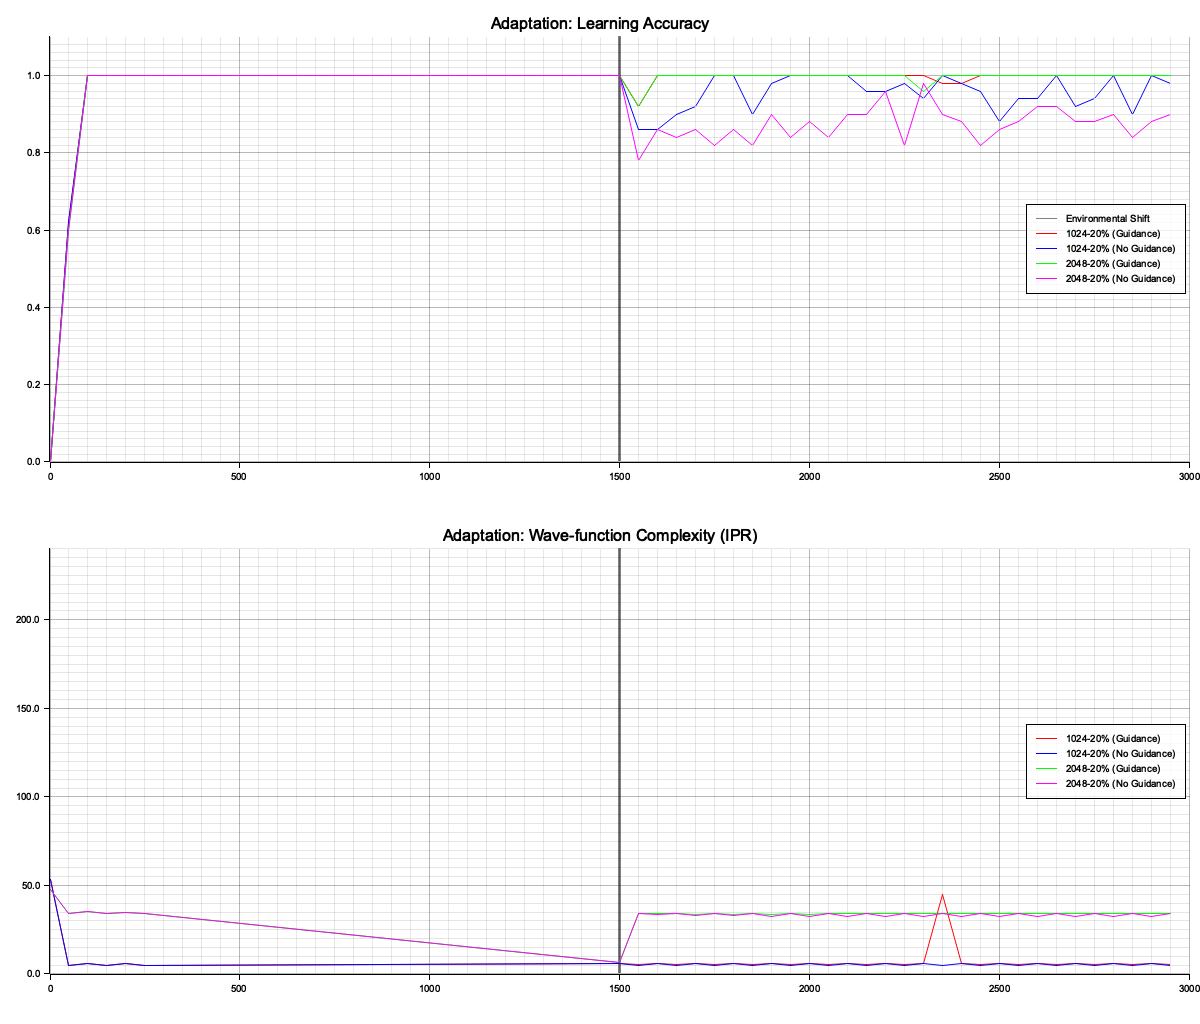
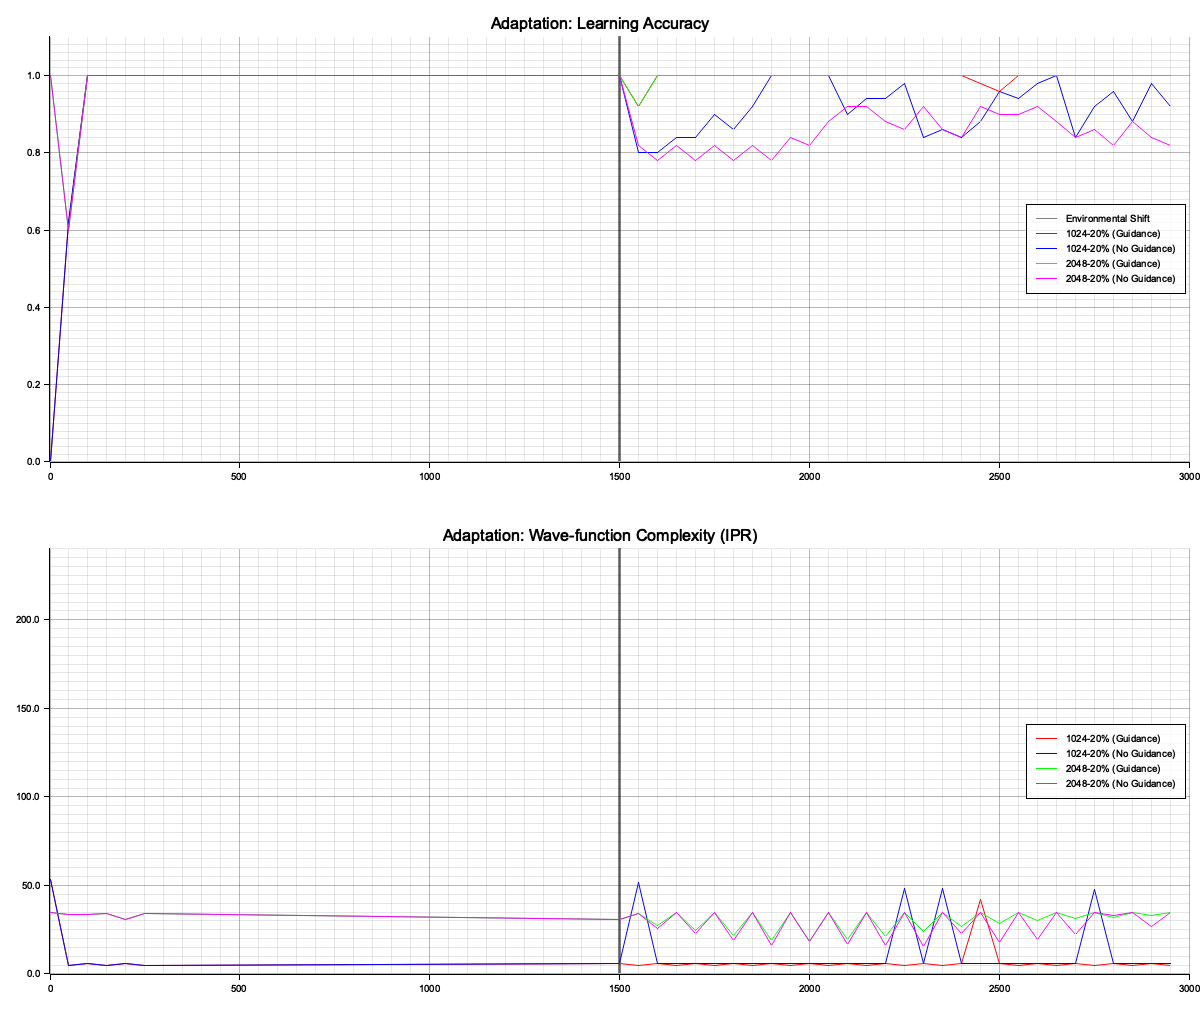
feat: Implement ShardedMWSO search space partitioning and remove obsolete Horizon system
- Added state-shard affinities to ShardedMWSO to guide energy injection based on system temperature.
- Improved 2048-bin convergence in adaptation_bench without IRL (0.88 accuracy).
- Deleted src/core/horizon.rs and removed Horizon field/logic from Singularity.
- Updated persistence model version to 14 (skipping glutamate_buffer).
- Deprecated getGliaActivity in Java API and updated JNI to return 0.0.

diff --git a/src/core/mwso.rs b/src/core/mwso.rs
@@ -418,6 +418,8 @@ pub struct ShardedMWSO {
     pub actions_per_shard: usize,
     // (from_shard, from_bin, to_shard, to_bin) -> strength
     pub inter_shard_tunnels: HashMap<(usize, usize, usize, usize), f32>,
+    // 状態とシャードの親和性 (state_idx -> shard_affinities)
+    pub state_affinities: HashMap<usize, Vec<f32>>,
 }
 
 impl ShardedMWSO {
@@ -436,6 +438,7 @@ impl ShardedMWSO {
             total_action_size,
             actions_per_shard,
             inter_shard_tunnels: HashMap::new(),
+            state_affinities: HashMap::new(),
         }
     }
  
@@ -490,30 +493,60 @@ impl ShardedMWSO {
         scores
     }
  
-    pub fn inject_state(&mut self, state_idx: usize, strength: f32, penalty_field: &[f32]) {
+    pub fn inject_state(&mut self, state_idx: usize, strength: f32, system_temp: f32, penalty_field: &[f32]) {
         if self.shards.is_empty() { return; }
 
-        // 1. state_idx を担当するシャードを決定
-        let responsible_shard_idx = state_idx % self.shards.len();
+        let num_shards = self.shards.len();
         
-        // 2. そのシャードに対応する penalty_field のスライスを準備
+        // 1. 状態に対するシャード親和性を取得・初期化
+        let affinities = self.state_affinities.entry(state_idx).or_insert_with(|| {
+            // 最初は全シャードに等しく分配（探索のため）
+            vec![1.0; num_shards]
+        });
+
+        // 2. 温度に応じた探索・分配重みの計算
+        // 高温時は全シャードに均等に近く、低温時は親和性の高いシャードに集中させる
+        let mut weights = vec![0.0; num_shards];
+        let mut total_weight = 0.0;
+        
+        // 温度が高いほど(2.0に近い)、base_prob が高くなり、全シャードが均等に選ばれやすくなる
+        let exploration_factor = (system_temp * 0.5).clamp(0.0, 1.0);
+        let base_prob = exploration_factor * (1.0 / num_shards as f32);
+
+        for i in 0..num_shards {
+            // 親和性と探索因子のハイブリッド重み
+            weights[i] = (affinities[i] * (1.0 - exploration_factor)) + base_prob;
+            total_weight += weights[i];
+        }
+
+        // 重みの正規化
+        if total_weight > 0.0 {
+            for w in &mut weights { *w /= total_weight; }
+        }
+
+        // 3. 各シャードに重みに応じた強度で注入
         let bin_per_action = self.shard_dim / self.actions_per_shard;
-        let action_start = responsible_shard_idx * self.actions_per_shard;
-        let action_end = (action_start + self.actions_per_shard).min(self.total_action_size);
+        for shard_idx in 0..num_shards {
+            let shard_weight = weights[shard_idx];
+            if shard_weight < 0.01 { continue; } // 微弱な場合はスキップして計算節約
 
-        let slice_start = action_start * bin_per_action;
-        let slice_end = action_end * bin_per_action;
+            let action_start = shard_idx * self.actions_per_shard;
+            let action_end = (action_start + self.actions_per_shard).min(self.total_action_size);
 
-        let mut local_penalty = vec![0.0f32; self.shard_dim];
-        if slice_end > slice_start && slice_end <= penalty_field.len() {
+            let slice_start = action_start * bin_per_action;
+            let slice_end = action_end * bin_per_action;
+
+            let mut local_penalty = vec![0.0f32; self.shard_dim];
+            if slice_end > slice_start && slice_end <= penalty_field.len() {
                 let relevant_slice = &penalty_field[slice_start..slice_end];
                 let local_penalty_len = relevant_slice.len();
                 local_penalty[..local_penalty_len].copy_from_slice(relevant_slice);
+            }
+
+            let shard = &mut self.shards[shard_idx];
+            // 状態インデックスは全シャード共通（または shard_dim で畳み込み）
+            shard.inject_state(state_idx % shard.dim, strength * shard_weight, &local_penalty);
         }
-        
-        // 3. 担当シャードにのみ状態を注入
-        let shard = &mut self.shards[responsible_shard_idx];
-        shard.inject_state(state_idx % shard.dim, strength, &local_penalty);
     }
  
     pub fn step_core(&mut self, dt: f32, speed_boost: f32, focus_factor: f32, system_temp: f32, penalty_field: &[f32]) {
@@ -553,26 +586,16 @@ impl ShardedMWSO {
             let shard_to = &mut self.shards[to_shard];
             shard_to.psi_real[to_bin] += delta_re;
             shard_to.psi_imag[to_bin] += delta_im;
-
-            // エネルギーを失う側（from） - 保存則のため後で適用
-            // self.shards[from_shard].psi_real[from_bin] -= delta_re;
-            // self.shards[from_shard].psi_imag[from_bin] -= delta_im;
-            // NOTE: エネルギー保存を厳密にすると発散しやすくなるため、一方的な注入（増幅）として実装する。
-            //       これにより、関連性の強いシャードの活動がブーストされる効果を狙う。
-            // TODO: この一方的なエネルギー注入は、関連活動をブーストする効果がある一方、
-            //       長期的にはシステムの不安定性を引き起こす可能性も否定できない。
-            //       将来的に、エネルギー保存則を考慮した、より安定した結合方法の検討も視野に入れる。
         }
 
         // 3. トンネル自体の自然減衰と枝刈り
-        //HashMap::retain を使うと効率的
         self.inter_shard_tunnels.retain(|_, strength| {
             *strength *= 0.995;
             *strength > 0.01
         });
     }
  
-    pub fn adapt(&mut self, reward: f32, last_actions: &[usize], system_temp: f32) {
+    pub fn adapt(&mut self, state_idx: usize, reward: f32, last_actions: &[usize], system_temp: f32) {
         for &action_idx in last_actions {
             let (shard_idx, local_action) = self.shard_for_action(action_idx);
             self.shards[shard_idx].adapt(
@@ -581,6 +604,23 @@ impl ShardedMWSO {
                 system_temp,
                 self.actions_per_shard,
             );
+
+            // 成功した場合、そのシャードと状態の親和性を強化
+            if reward > 0.1 {
+                let affinities = self.state_affinities.entry(state_idx).or_insert_with(|| {
+                    vec![1.0 / self.shards.len() as f32; self.shards.len()]
+                });
+                
+                // 親和性の強化
+                affinities[shard_idx] = (affinities[shard_idx] + reward * 0.1).min(2.0);
+
+                // 他のシャードの親和性を相対的に減衰（競合）
+                for i in 0..affinities.len() {
+                    if i != shard_idx {
+                        affinities[i] *= 0.95;
+                    }
+                }
+            }
         }
     }
  

diff --git a/src/core/singularity.rs b/src/core/singularity.rs
@@ -1,4 +1,3 @@
-use super::horizon::Horizon;
 use super::node::Node;
 use super::mwso::MWSO;
 use super::mwso::ShardedMWSO;
@@ -14,7 +13,6 @@ pub struct Experience {
 
 pub struct Singularity {
     pub nodes: Vec<Node>,
-    pub horizon: Horizon,
     pub mwso: MWSO,
     pub sharded_mwso: Option<ShardedMWSO>,
     pub bootstrapper: crate::core::knowledge::Bootstrapper,
@@ -70,7 +68,6 @@ impl Singularity {
         
         Self {
             nodes,
-            horizon: Horizon::new(),
             mwso: MWSO::new(required_dim),
             sharded_mwso: if use_sharding {
                 Some(ShardedMWSO::new(total_action_size))
@@ -145,7 +142,7 @@ impl Singularity {
         // --- Flow Injection (Temporal Smearing) ---
         // 現在の状態を 1.0 で注入
         if let Some(ref mut sharded) = self.sharded_mwso {
-            sharded.inject_state(state_idx, 1.0, &current_penalty_field);
+            sharded.inject_state(state_idx, 1.0, self.system_temperature, &current_penalty_field);
         } else {
             self.mwso.inject_state(state_idx, 1.0, &current_penalty_field);
         }
@@ -156,7 +153,7 @@ impl Singularity {
         for &prev_idx in self.input_history.iter().rev() {
         if let Some(ref mut sharded) = self.sharded_mwso {
                 // 全シャードに注入するが強度を弱める
-                sharded.inject_state(prev_idx, decay * 0.5, &current_penalty_field);
+                sharded.inject_state(prev_idx, decay * 0.5, self.system_temperature, &current_penalty_field);
             } else {
                 self.mwso.inject_state(prev_idx, decay, &current_penalty_field);
             }
@@ -336,7 +333,7 @@ impl Singularity {
         for exp in history_clone.iter().rev() {
             let discounted_reward = reward * discount;
             if let Some(ref mut sharded) = self.sharded_mwso {
-                sharded.adapt(discounted_reward, &exp.actions, self.system_temperature);
+                sharded.adapt(exp.state_idx, discounted_reward, &exp.actions, self.system_temperature);
 
                 // シャード間トンネルの学習
                 if discounted_reward > 0.1 && !sharded.shards.is_empty() {
@@ -469,8 +466,8 @@ impl Singularity {
         
         match &mut self.sharded_mwso {
             Some(sharded) => {
-                sharded.inject_state(0, reward, &self.empty_penalty);
-                sharded.inject_state(1, -penalty, &self.empty_penalty);
+                sharded.inject_state(0, reward, self.system_temperature, &self.empty_penalty);
+                sharded.inject_state(1, -penalty, self.system_temperature, &self.empty_penalty);
                 sharded.step_core(0.05, 0.0, 0.0, self.system_temperature, &self.empty_penalty);
             },
             None => {
@@ -487,8 +484,6 @@ impl Singularity {
         if urgency > 0.5 || (self.system_temperature - self.last_topology_update_temp).abs() > 0.05 {
             self.reshape_topology();
         }
-        let all_indices: Vec<usize> = (0..self.nodes.len()).collect();
-        self.horizon.regulate(self.system_temperature, &all_indices, &mut self.nodes);
     }
 
     pub fn reshape_topology(&mut self) {
@@ -501,13 +496,6 @@ impl Singularity {
         self.update_connection(self.idx_aggression, self.idx_reflex, arousal * 1.5);
         self.update_connection(self.idx_fear, self.idx_reflex, self.nodes[self.idx_fear].state * 2.0);
 
-        if self.system_temperature > 1.5 {
-            let glia_intervention = self.horizon.get_intervention_level();
-            if glia_intervention > 0.7 {
-                self.nodes[self.idx_aggression].apply_inhibition(0.3);
-                self.nodes[self.idx_fear].apply_inhibition(0.2);
-            }
-        }
         self.apply_elastic_fatigue();
     }
 
@@ -624,7 +612,7 @@ impl Singularity {
     pub fn save_to_file(&self, path: &str) -> io::Result<()> {
         let mut file = File::create(path)?;
         file.write_all(b"DSYM")?;
-        file.write_all(&13u32.to_le_bytes())?; 
+        file.write_all(&14u32.to_le_bytes())?; 
         file.write_all(&(self.state_size as u32).to_le_bytes())?;
         file.write_all(&self.system_temperature.to_le_bytes())?;
         file.write_all(&(if self.temperature_locked { 1u32 } else { 0u32 }).to_le_bytes())?;
@@ -634,7 +622,6 @@ impl Singularity {
         file.write_all(&self.morale.to_le_bytes())?;
         file.write_all(&self.patience.to_le_bytes())?;
         file.write_all(&self.exploration_beta.to_le_bytes())?;
-        file.write_all(&self.horizon.glutamate_buffer.to_le_bytes())?;
         for f in &self.fatigue_map { file.write_all(&f.to_le_bytes())?; }
         for m in &self.action_momentum { file.write_all(&m.to_le_bytes())?; }
         for g in &self.mwso.gravity_field { file.write_all(&g.to_le_bytes())?; }
@@ -692,7 +679,9 @@ impl Singularity {
         self.morale = read_f32(&mut cur);
         self.patience = read_f32(&mut cur);
         self.exploration_beta = read_f32(&mut cur);
-        self.horizon.glutamate_buffer = read_f32(&mut cur);
+        if version < 14 {
+            let _ = read_f32(&mut cur); // Skip glutamate_buffer in old versions
+        }
         
         for f in &mut self.fatigue_map { *f = read_f32(&mut cur); }
         for m in &mut self.action_momentum { *m = read_f32(&mut cur); }

diff --git a/dark_singularity_api/src/main/java/com/lunar_prototype/dark_singularity_api/Singularity.java b/dark_singularity_api/src/main/java/com/lunar_prototype/dark_singularity_api/Singularity.java
@@ -98,6 +98,8 @@ public class Singularity implements AutoCloseable {
     private native int[] selectActionsNative(long handle, float[] inputs);
     private native void learnNative(long handle, float reward);
     private native float getSystemTemperature(long handle);
+    /** @deprecated Horizon/Glia is removed. Returns 0.0. */
+    @Deprecated
     private native float getGliaActivityNative(long handle);
     private native float getActionScoreNative(long handle, int action_idx);
     private native float getFrustration(long handle);
@@ -156,6 +158,8 @@ public class Singularity implements AutoCloseable {
         return getSystemTemperature(handle);
     }
     
+    /** @deprecated Removed. Returns 0.0. */
+    @Deprecated
     public float getGliaActivity() {
         return getGliaActivityNative(handle);
     }

diff --git a/src/lib.rs b/src/lib.rs
@@ -115,11 +115,10 @@ pub extern "system" fn Java_com_lunar_1prototype_dark_1singularity_1api_Singular
 pub extern "system" fn Java_com_lunar_1prototype_dark_1singularity_1api_Singularity_getGliaActivityNative(
     _env: JNIEnv,
     _class: JClass,
-    handle: jlong,
+    _handle: jlong,
 ) -> jfloat {
-    let singularity = unsafe { &*(handle as *const Singularity) };
-    // Horizon のバッファ状況から介入レベル(0.0-1.0)を取得
-    singularity.horizon.get_intervention_level() as jfloat
+    // Horizon is removed, homeostasis is now implicitly handled or obsolete
+    0.0
 }
 
 #[unsafe(no_mangle)]

diff --git a/tests/adaptation_bench.rs b/tests/adaptation_bench.rs
@@ -123,6 +123,8 @@ Pre-training converged at episode {}.", episode);
             data.iprs.push(singularity.calculate_current_ipr());
         }
     }
+    let final_accuracy = recent_hits.iter().sum::<f32>() / recent_hits.len() as f32;
+    println!(" Final Accuracy: {:.2}", final_accuracy);
     println!(" Done.");
     data
 }

diff --git a/src/core/mod.rs b/src/core/mod.rs
@@ -1,5 +1,4 @@
 pub mod node;
-pub mod horizon;
 pub mod singularity;
 pub mod math;
 pub mod knowledge;
